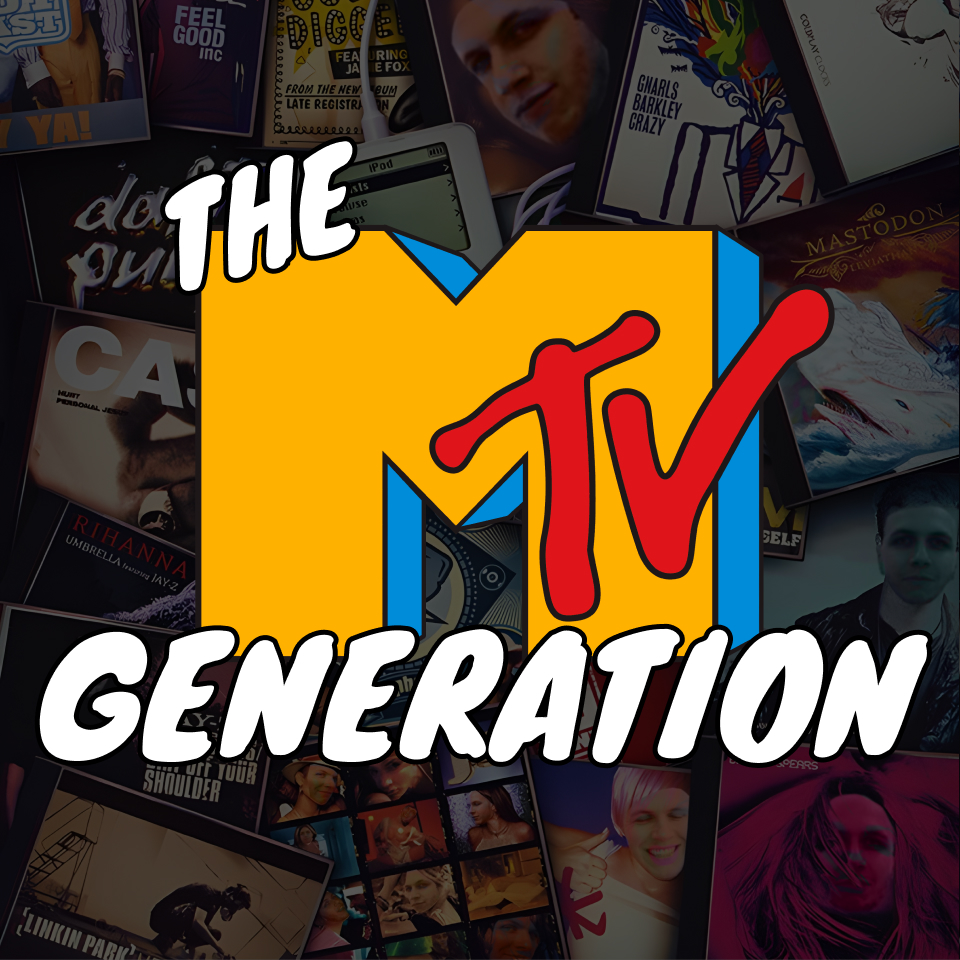
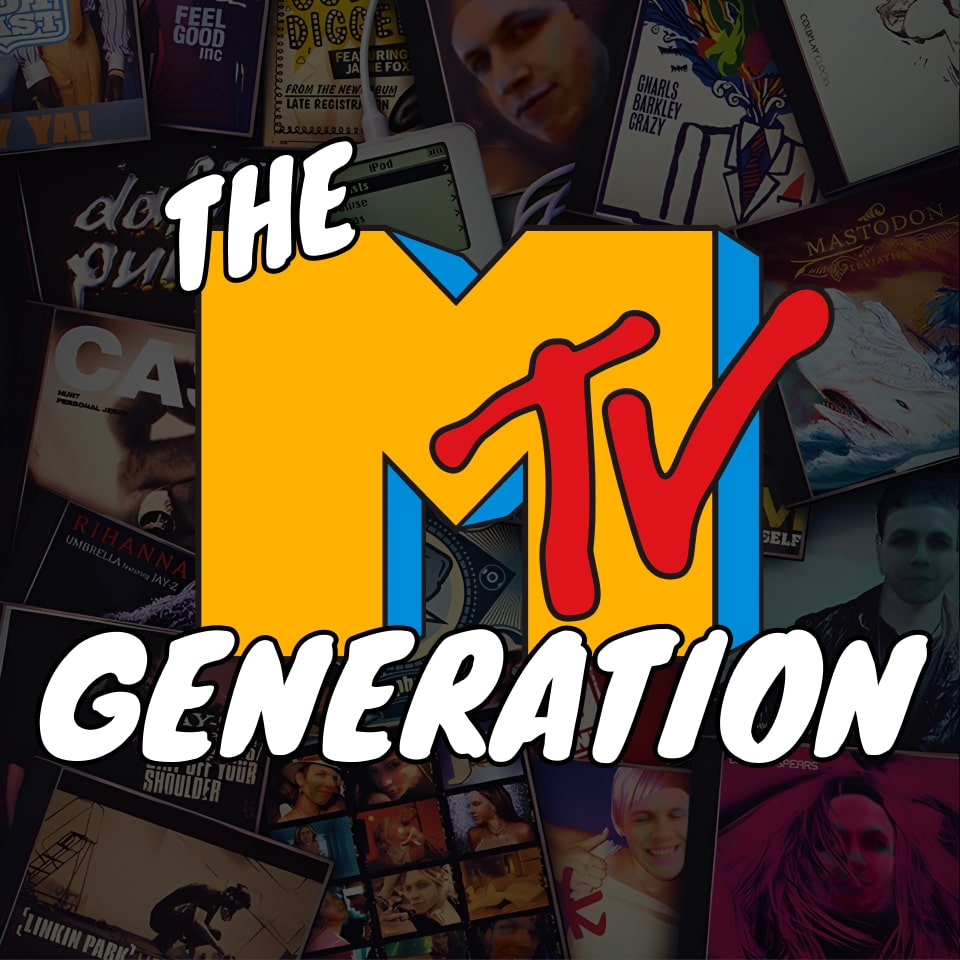
Optimize assets & minor updates

diff --git a/src/modules/playlists-browser/PlaylistsBrowserTitle.svelte b/src/modules/playlists-browser/PlaylistsBrowserTitle.svelte
@@ -15,12 +15,12 @@
 	};
 
 	const inAnimation = (_: Node) => ({
-		duration: PLAYLISTS_BROWSER_TRANSITION_DURATION,
+		duration: PLAYLISTS_BROWSER_TRANSITION_DURATION / 2,
 		css: (t: number) => titleAnimationCss(t)
 	});
 
 	const outAnimation = (_: Node) => ({
-		duration: PLAYLISTS_BROWSER_TRANSITION_DURATION,
+		duration: PLAYLISTS_BROWSER_TRANSITION_DURATION / 2,
 		css: (t: number) => titleAnimationCss(t, true)
 	});
 
